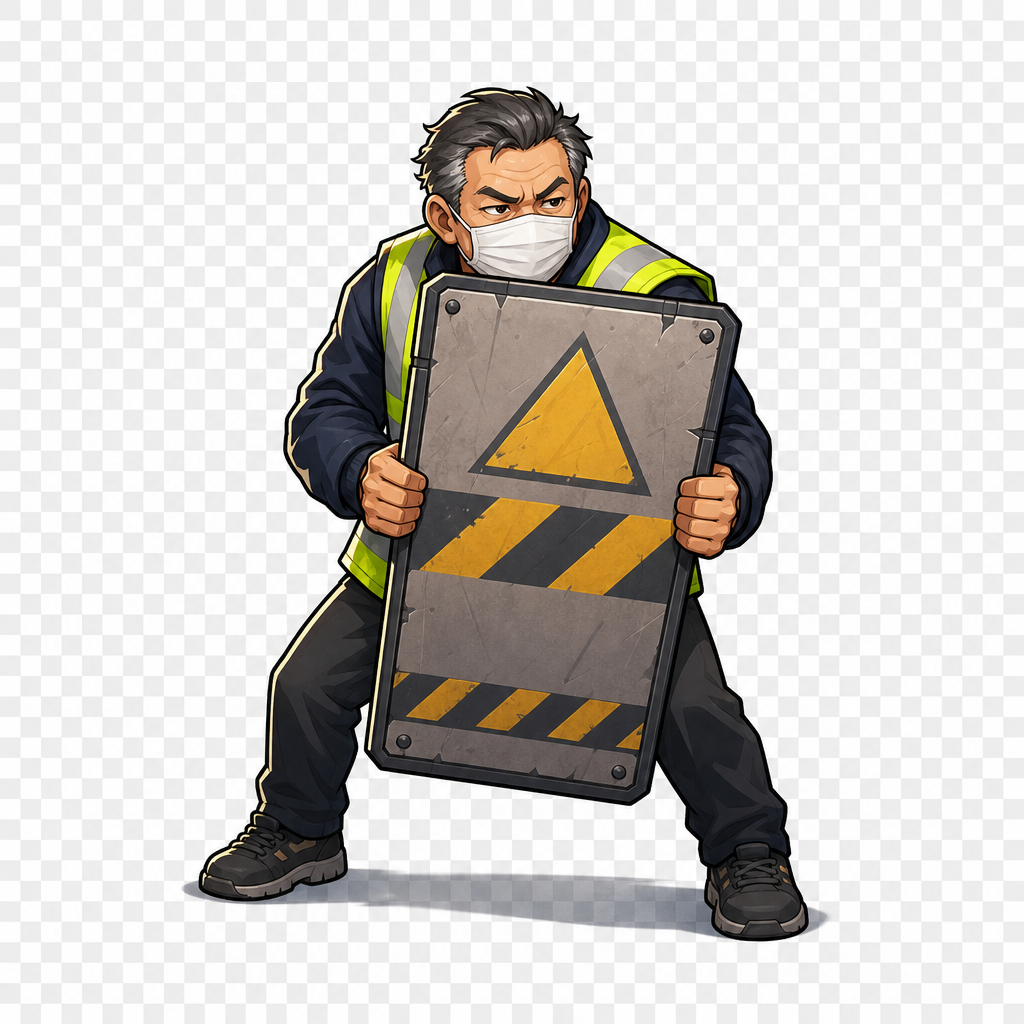
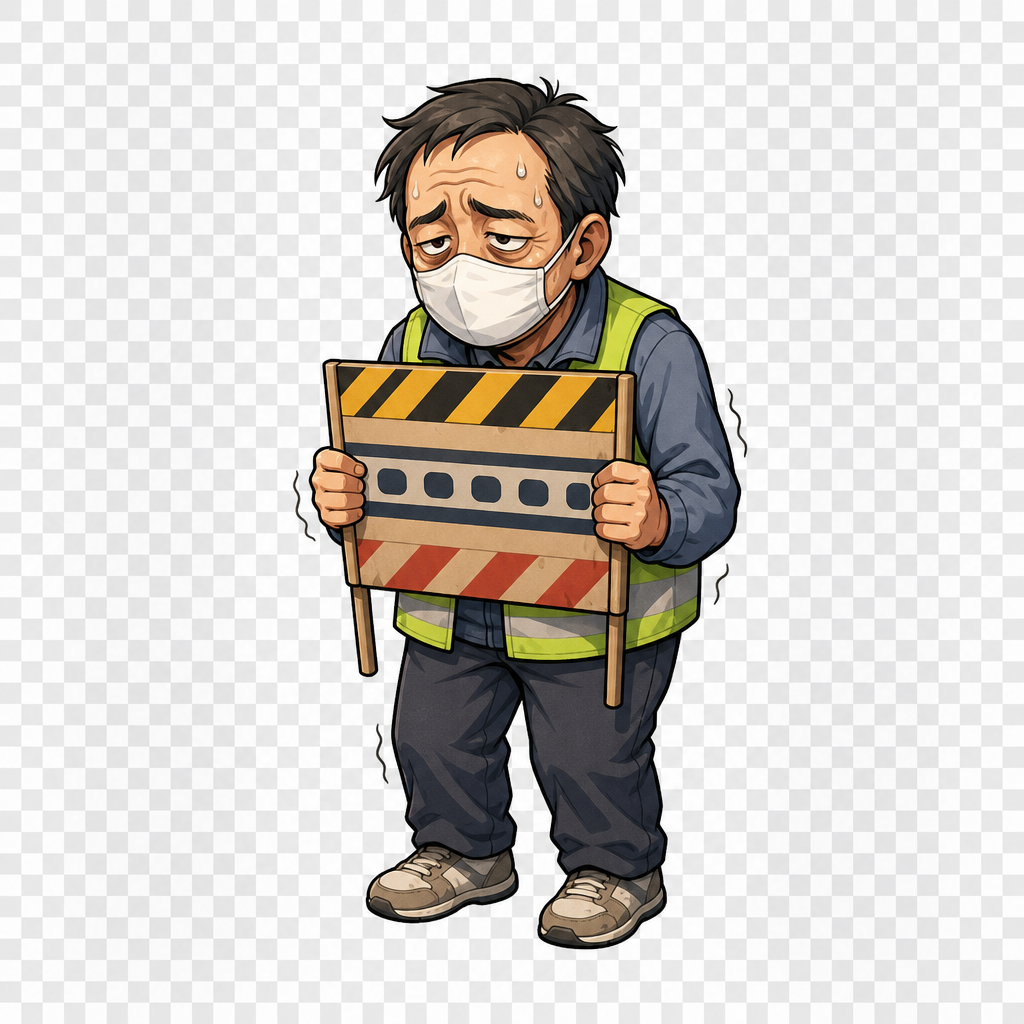
Use selected commute protest sprite

diff --git a/src/main.js b/src/main.js
@@ -335,7 +335,7 @@ for (const monster of monsterTypes) {
   monsterImages.set(monster.id, image);
 }
 const commuteProtestImage = new Image();
-commuteProtestImage.src = "/assets/monsters/commute-protest-cart.png?v=20260627b";
+commuteProtestImage.src = "/assets/monsters/commute-protest-cart.png?v=20260627c";
 monsterImages.set("commute-protest", commuteProtestImage);
 
 const legacyBossTypes = [